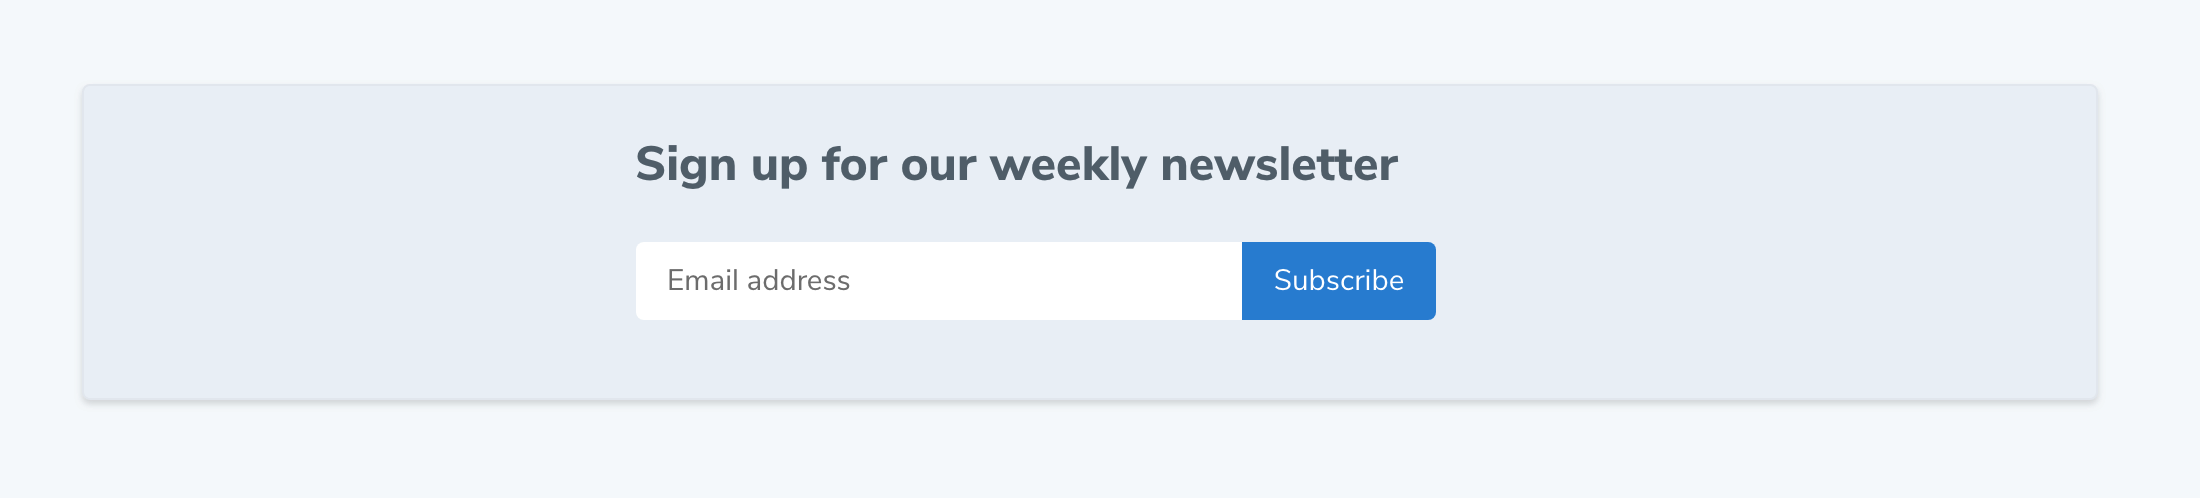
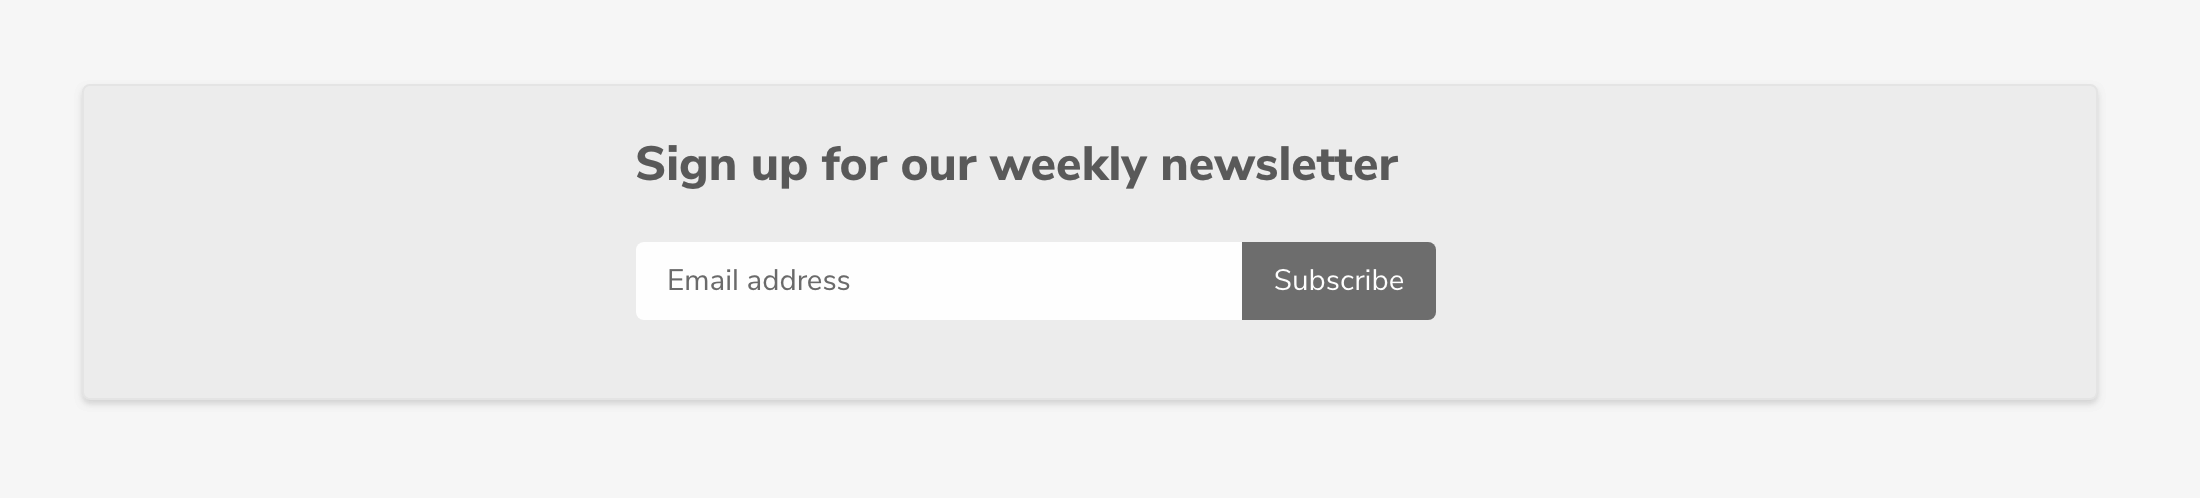
styles like a bawse

Changed region(s): [[0.5564, 0.4819, 0.68, 0.6627]]

diff --git a/source/assets/build/js/main.js b/source/assets/build/js/main.js
@@ -381,7 +381,7 @@ eval("\n\nvar bind = __webpack_require__(/*! ./helpers/bind */ \"./node_modules/
 /***/ (function(module, __webpack_exports__, __webpack_require__) {
 
 "use strict";
[2 lines of base64/hex data omitted]
 
 /***/ }),
 
@@ -613,7 +613,7 @@ eval("/* WEBPACK VAR INJECTION */(function(global) {var scope = (typeof global !
 /***/ (function(module, __webpack_exports__, __webpack_require__) {
 
 "use strict";
[2 lines of base64/hex data omitted]
 
 /***/ }),
 

diff --git a/source/_assets/js/components/Search.vue b/source/_assets/js/components/Search.vue
@@ -10,7 +10,7 @@
                 id="search"
                 v-model="query"
                 ref="search"
-                class="transition-fast relative block h-10 w-full lg:w-1/2 lg:focus:w-3/4 bg-gray-100 border border-gray-500 focus:border-blue-400 outline-none cursor-pointer text-gray-700 px-4 pb-0 pt-px"
+                class="transition-fast relative block h-10 w-full lg:w-1/2 lg:focus:w-3/4 bg-white-100 border border-gray-500 focus:border-teal-400 outline-none cursor-pointer text-gray-700 px-4 pb-0 pt-px"
                 :class="{ 'transition-border': query }"
                 autocomplete="off"
                 name="search"
@@ -22,16 +22,16 @@
 
             <button
                 v-if="query || searching"
-                class="absolute top-0 right-0 leading-snug font-400 text-3xl text-blue-500 hover:text-blue-600 focus:outline-none pr-7 md:pr-3"
+                class="absolute top-0 right-0 leading-snug font-400 text-3xl text-teal-500 hover:text-teal-600 focus:outline-none pr-7 md:pr-3"
                 @click="reset"
             >&times;</button>
 
             <transition name="fade">
                 <div v-if="query" class="absolute left-0 right-0 md:inset-auto w-full lg:w-3/4 text-left mb-4 md:mt-10">
-                    <div class="flex flex-col bg-white border border-b-0 border-t-0 border-blue-400 rounded-b-lg shadow-lg mx-4 md:mx-0">
+                    <div class="flex flex-col bg-white border border-b-0 border-t-0 border-teal-400 rounded-b-lg shadow-lg mx-4 md:mx-0">
                         <a
                             v-for="(result, index) in results"
-                            class="bg-white hover:bg-blue-100 border-b border-blue-400 text-xl cursor-pointer p-4"
+                            class="bg-white hover:bg-teal-100 border-b border-teal-400 text-xl cursor-pointer p-4"
                             :class="{ 'rounded-b-lg' : (index === results.length - 1) }"
                             :href="result.link"
                             :title="result.title"
@@ -45,7 +45,7 @@
 
                         <div
                             v-if="! results.length"
-                            class="bg-white w-full hover:bg-blue-100 border-b border-blue-400 rounded-b-lg shadow cursor-pointer p-4"
+                            class="bg-white w-full hover:bg-teal-100 border-b border-teal-400 rounded-b-lg shadow cursor-pointer p-4"
                         >
                             <p class="my-0">No results for <strong>{{ query }}</strong></p>
                         </div>
@@ -57,7 +57,7 @@
         <button
             title="Start searching"
             type="button"
-            class="flex md:hidden bg-gray-100 hover:bg-blue-100 justify-center items-center border border-gray-500 rounded-full focus:outline-none h-10 px-3"
+            class="flex md:hidden bg-gray-100 hover:bg-teal-100 justify-center items-center border border-gray-500 rounded-full focus:outline-none h-10 px-3"
             @click.prevent="showInput"
         >
             <img src="/assets/img/magnifying-glass.svg" alt="search icon" class="h-4 w-4 max-w-none">

diff --git a/source/assets/build/css/main.css b/source/assets/build/css/main.css
@@ -742,15 +742,15 @@ body {
 a {
   font-weight: 600;
   text-decoration: none;
-  color: #3182ce;
+  color: #319795;
 }
 
 a:hover {
-  color: #2c5282;
+  color: #285e61;
 }
 
 blockquote {
-  border-color: #63b3ed;
+  border-color: #4fd1c5;
   border-left-width: 4px;
   font-weight: 400;
   font-style: italic;
@@ -836,7 +836,7 @@ h6 {
 
 hr {
   border-bottom-width: 1px;
-  border-color: #bee3f8;
+  border-color: #b2f5ea;
   margin-top: 3rem;
   margin-bottom: 3rem;
   border-radius: 9999px;
@@ -893,12 +893,12 @@ pre code {
 }
 
 ::-moz-selection {
-  background-color: #4299e1;
+  background-color: #38b2ac;
   color: #fff;
 }
 
 ::selection {
-  background-color: #4299e1;
+  background-color: #38b2ac;
   color: #fff;
 }
 
@@ -917,7 +917,7 @@ pre code {
   text-decoration: none;
   margin-bottom: 1rem;
   margin-top: 0;
-  color: #2d3748;
+  color: #285e61;
   font-size: .925rem;
 }
 
@@ -984,7 +984,7 @@ pre code {
 }
 
 #mc-embedded-subscribe {
-  background-color: #4299e1;
+  background-color: #38b2ac;
   cursor: pointer;
   line-height: 1.6;
   padding-left: 1.5rem;
@@ -998,7 +998,7 @@ pre code {
 }
 
 #mc-embedded-subscribe:hover {
-  background-color: #3182ce;
+  background-color: #319795;
 }
 
 @media (min-width: 768px) {

diff --git a/source/_assets/sass/_base.scss b/source/_assets/sass/_base.scss
@@ -5,15 +5,15 @@ body {
 a {
     @apply .font-semibold;
     @apply .no-underline;
-    @apply .text-blue-600;
+    @apply .text-teal-600;
 
     &:hover {
-        @apply .text-blue-800;
+        @apply .text-teal-800;
     }
 }
 
 blockquote {
-    @apply .border-blue-400;
+    @apply .border-teal-400;
     @apply .border-l-4;
     @apply .font-normal;
     @apply .italic;
@@ -91,7 +91,7 @@ h6 {
 
 hr {
     @apply .border-b;
-    @apply .border-blue-200;
+    @apply .border-teal-200;
     @apply .my-12;
     @apply .rounded-full;
 }
@@ -142,6 +142,6 @@ pre {
 }
 
 ::selection {
-    @apply .bg-blue-500;
+    @apply .bg-teal-500;
     @apply .text-white;
 }

diff --git a/source/_assets/sass/_mailchimp.scss b/source/_assets/sass/_mailchimp.scss
@@ -59,7 +59,7 @@
 }
 
 #mc-embedded-subscribe {
-    @apply .bg-blue-500;
+    @apply .bg-teal-500;
     @apply .cursor-pointer;
     @apply .leading-normal;
     @apply .px-6;
@@ -69,7 +69,7 @@
     @apply .w-1/3;
 
     &:hover {
-        @apply .bg-blue-600;
+        @apply .bg-teal-600;
     }
 
     @screen md {

diff --git a/source/_assets/sass/_navigation.scss b/source/_assets/sass/_navigation.scss
@@ -12,6 +12,6 @@
     @apply .no-underline;
     @apply .mb-4;
     @apply .mt-0;
-    @apply .text-gray-800;
+    @apply .text-teal-800;
     @apply .text-sm;
 }

diff --git a/source/_layouts/master.blade.php b/source/_layouts/master.blade.php
@@ -27,14 +27,14 @@
         <link rel="stylesheet" href="{{ mix('css/main.css', 'assets/build') }}">
     </head>
 
-    <body class="flex flex-col justify-between min-h-screen bg-gray-100 text-gray-800 leading-normal font-sans">
+    <body class="flex flex-col justify-between min-h-screen bg-white-100 text-gray-800 leading-normal font-sans">
         <header class="flex items-center shadow bg-white border-b h-24 py-4" role="banner">
             <div class="container flex items-center max-w-8xl mx-auto px-4 lg:px-8">
                 <div class="flex items-center">
                     <a href="/" title="{{ $page->siteName }} home" class="inline-flex items-center">
                         <img class="h-8 md:h-10 mr-3" src="/assets/img/rhombictriacontahedron.png" alt="{{ $page->siteName }} logo" />
 
-                        <h1 class="text-lg md:text-2xl text-olive-800 font-semibold hover:text-green-600 my-0">{{ $page->siteName }}</h1>
+                        <h1 class="text-lg md:text-2xl text-teal-600 font-semibold hover:text-teal-400 my-0">{{ $page->siteName }}</h1>
                     </a>
                 </div>
 
@@ -57,7 +57,7 @@
         <footer class="bg-white text-center text-sm mt-12 py-4" role="contentinfo">
             <ul class="flex flex-col md:flex-row justify-center list-none">
                 <li class="md:mr-2">
-                    &copy; <a href="https://tighten.co" title="Tighten website">Tighten</a> {{ date('Y') }}.
+                    &copy; <a href="https://appliedretighten.co" title="Tighten website">Tighten</a> {{ date('Y') }}.
                 </li>
 
                 <li>

diff --git a/source/_nav/menu-responsive.blade.php b/source/_nav/menu-responsive.blade.php
@@ -4,21 +4,21 @@
             <a
                 title="{{ $page->siteName }} Blog"
                 href="/blog"
-                class="nav-menu__item hover:text-blue-500 {{ $page->isActive('/blog') ? 'active text-blue' : '' }}"
+                class="nav-menu__item hover:text-teal-500 {{ $page->isActive('/blog') ? 'active text-teal' : '' }}"
             >Blog</a>
         </li>
         <li class="pl-4">
             <a
                 title="{{ $page->siteName }} About"
                 href="/about"
-                class="nav-menu__item hover:text-blue-500 {{ $page->isActive('/about') ? 'active text-blue' : '' }}"
+                class="nav-menu__item hover:text-teal-500 {{ $page->isActive('/about') ? 'active text-teal' : '' }}"
             >About</a>
         </li>
         <li class="pl-4">
             <a
                 title="{{ $page->siteName }} Contact"
                 href="/contact"
-                class="nav-menu__item hover:text-blue-500 {{ $page->isActive('/contact') ? 'active text-blue' : '' }}"
+                class="nav-menu__item hover:text-teal-500 {{ $page->isActive('/contact') ? 'active text-teal' : '' }}"
             >Contact</a>
         </li>
     </ul>

diff --git a/source/_nav/menu.blade.php b/source/_nav/menu.blade.php
@@ -1,16 +1,16 @@
 <nav class="hidden lg:flex items-center justify-end text-lg">
     <a title="{{ $page->siteName }} Blog" href="/blog"
-        class="ml-6 text-gray-700 hover:text-blue-600 {{ $page->isActive('/blog') ? 'active text-blue-600' : '' }}">
+        class="ml-6 text-gray-700 hover:text-teal-600 {{ $page->isActive('/blog') ? 'active text-teal-600' : '' }}">
         Blog
     </a>
 
     <a title="{{ $page->siteName }} About" href="/about"
-        class="ml-6 text-gray-700 hover:text-blue-600 {{ $page->isActive('/about') ? 'active text-blue-600' : '' }}">
+        class="ml-6 text-gray-700 hover:text-teal-600 {{ $page->isActive('/about') ? 'active text-teal-600' : '' }}">
         About
     </a>
 
     <a title="{{ $page->siteName }} Contact" href="/contact"
-        class="ml-6 text-gray-700 hover:text-blue-600 {{ $page->isActive('/contact') ? 'active text-blue-600' : '' }}">
+        class="ml-6 text-gray-700 hover:text-teal-600 {{ $page->isActive('/contact') ? 'active text-teal-600' : '' }}">
         Contact
     </a>
 </nav>

diff --git a/source/_layouts/post.blade.php b/source/_layouts/post.blade.php
@@ -21,12 +21,12 @@
             <a
                 href="{{ '/blog/categories/' . $category }}"
                 title="View posts in {{ $category }}"
-                class="inline-block bg-gray-300 hover:bg-blue-200 leading-loose tracking-wide text-gray-800 uppercase text-xs font-semibold rounded mr-4 px-3 pt-px"
+                class="inline-block bg-gray-300 hover:bg-teal-200 leading-loose tracking-wide text-gray-800 uppercase text-xs font-semibold rounded mr-4 px-3 pt-px"
             >{{ $category }}</a>
         @endforeach
     @endif
 
-    <div class="border-b border-blue-200 mb-10 pb-4" v-pre>
+    <div class="border-b border-teal-200 mb-10 pb-4" v-pre>
         @yield('content')
     </div>
 

diff --git a/source/_components/newsletter-signup.blade.php b/source/_components/newsletter-signup.blade.php
@@ -1,4 +1,4 @@
-<div class="flex justify-center lg:-mx-12 my-12 p-6 md:px-12 bg-gray-200 border border-gray-400 text-sm md:rounded shadow">
+<div class="flex justify-center lg:-mx-12 my-12 p-6 md:px-12 bg-teal-100 border border-gray-400 text-sm md:rounded shadow">
     <!-- Begin Mailchimp Signup Form -->
     <div id="mc_embed_signup">
         <form action="https://your-mail-chimp-list-manage-url" method="post" id="mc-embedded-subscribe-form" name="mc-embedded-subscribe-form" class="validate" target="_blank" novalidate>

diff --git a/source/_nav/menu-toggle.blade.php b/source/_nav/menu-toggle.blade.php
@@ -1,4 +1,4 @@
-<button class="flex justify-center items-center bg-blue-500 border border-blue-500 h-10 px-5 rounded-full lg:hidden focus:outline-none"
+<button class="flex justify-center items-center bg-teal-500 border border-teal-500 h-10 px-5 rounded-full lg:hidden focus:outline-none"
     onclick="navMenu.toggle()"
 >
     <svg id="js-nav-menu-show" xmlns="http://www.w3.org/2000/svg"
